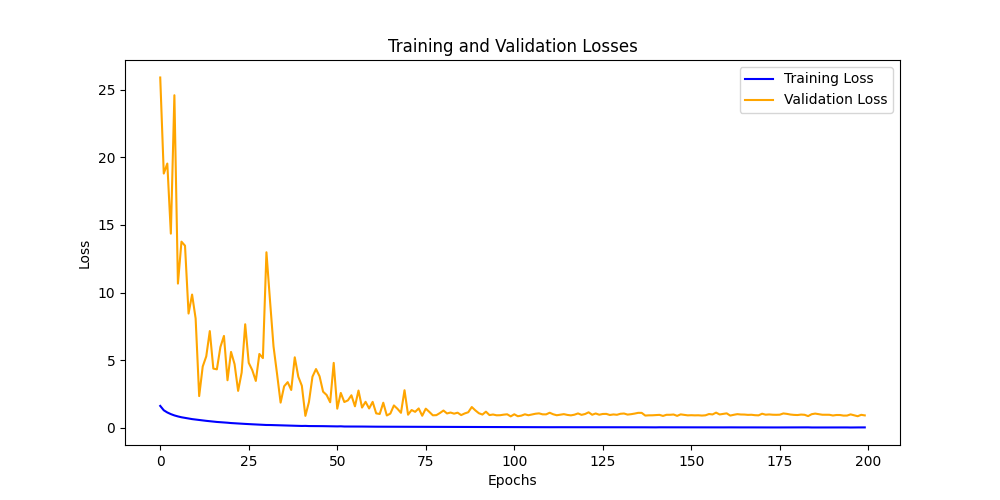
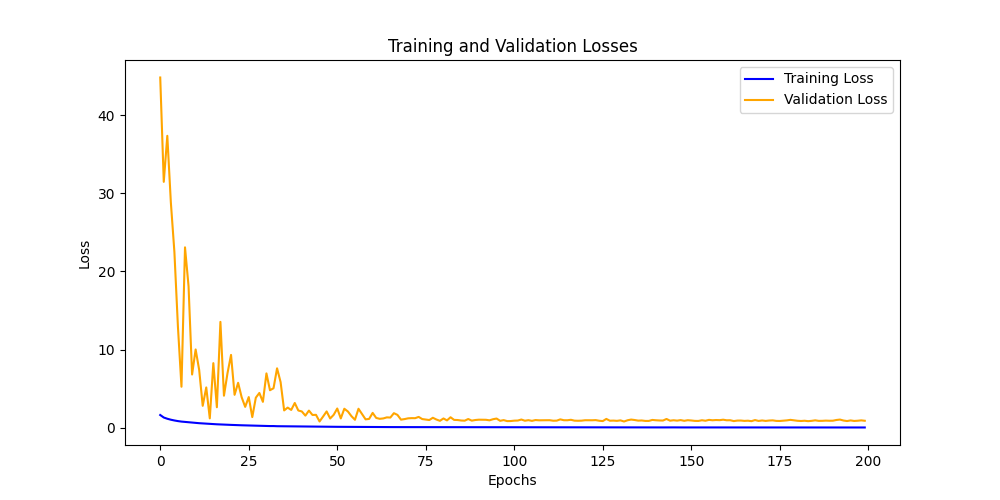
trains network new

diff --git a/cnn_MNIST.py b/cnn_MNIST.py
@@ -16,7 +16,7 @@ class CNN_MNIST(nn.Module):
         self.conv1 = nn.Conv2d(1, 6, kernel_size=5) #passt in Channels an, da MNIST Graustufenbilder sind
         self.pool = nn.MaxPool2d(kernel_size=2, stride=2)
         self.conv2 = nn.Conv2d(6, 16, kernel_size=5)
-        self.fc1 = nn.Linear(16 * 5 * 5, 120)
+        self.fc1 = nn.Linear(16 * 4 * 4, 120)
         self.fc2 = nn.Linear(120, 84)
         self.fc3 = nn.Linear(84, num_classes)
         self.b_norm1 = nn.BatchNorm1d(120)
@@ -26,7 +26,7 @@ class CNN_MNIST(nn.Module):
     def forward(self, x):
         x = self.pool(nn.functional.relu(self.conv1(x)))
         x = self.pool(nn.functional.relu(self.conv2(x)))
-        x = x.view(-1, 16 * 5 * 5)
+        x = x.view(-1, 16 * 4 * 4)
         x = self.fc1(x)
         x = self.b_norm1(x)
         x = nn.functional.relu(x)
@@ -103,7 +103,7 @@ class Classifier:
 
 
         # Netzwerk "laden"
-        self.network = CNN_MNIST(self.img_res, self.num_classes)
+        self.network = CNN_MNIST(self.num_classes)
         self.network = self.network.to(self.device)
 
         # Algorithmus für den Gradientenabstieg festlegen
@@ -266,12 +266,14 @@ class Classifier:
 # Main-Methode 
 def main():
     #Hyperparameter festlegen
-    n_epochs = 1
+    n_epochs = 200
     log_interval = 10
     init_lr = 0.0001
 
     #Instanz des Klassifizieres erzeugen
     cl = Classifier(n_epochs, init_lr)
+    
+    #cl.loadModelWeights(n_epochs)
     #Test von zufällig initierten Gewichten
     cl.test()
 
@@ -289,7 +291,7 @@ def main():
     cl.plot_confMatrix()
 
     #Speichern der optimierten Gewichte
-    cl.saveModelWeights(n_epochs)
+    #cl.saveModelWeights(n_epochs)
 
 #Wirft ein Fehler wenn der Teil nicht existiert 
 if __name__ == '__main__':

diff --git a/mlp_MNIST_2hidden.py b/mlp_MNIST_2hidden.py
@@ -256,30 +256,34 @@ class Classifier:
 # Main-Methode 
 def main():
     #Hyperparameter festlegen
-    n_epochs = 1
+    n_epochs = 200
     log_interval = 10
     init_lr = 0.0001
 
     #Instanz des Klassifizieres erzeugen
     cl = Classifier(n_epochs, init_lr)
     #Test von zufällig initierten Gewichten
-    cl.test()
+    #cl.test()
 
     #Jede Epoche ein Trainings und ein Validierungsschritt
-    for epoch in range(1, n_epochs + 1):
-        cl.train(epoch, log_interval)
-        cl.validate()
+    
+    #for epoch in range(1, n_epochs + 1):
+    #    cl.train(epoch, log_interval)
+    #    cl.validate()
 
     #Plotten des Trainings- und Validierungs-Loss-Graphen
-    cl.plot_val_train_losses()
+    #cl.plot_val_train_losses()
+
+    cl.loadModelWeights(n_epochs)
+    cl.test()
 
     #Evaluieren des trainierten Netzes
-    cl.test()
+    #cl.test()
     #Plotten der Confusion-Matrix
     cl.plot_confMatrix()
 
     #Speichern der optimierten Gewichte
-    cl.saveModelWeights(n_epochs)
+    #cl.saveModelWeights(n_epochs)
 
 #Wirft ein Fehler wenn der Teil nicht existiert 
 if __name__ == '__main__':

diff --git a/cnn_CIFAR10_complex.py b/cnn_CIFAR10_complex.py
@@ -297,7 +297,7 @@ class CNN_CIFAR_Classifier:
 # Main-Methode 
 def main():
     #Hyperparameter festlegen
-    n_epochs = 20
+    n_epochs = 200
     log_interval = 10
     init_lr = 0.0001
 
